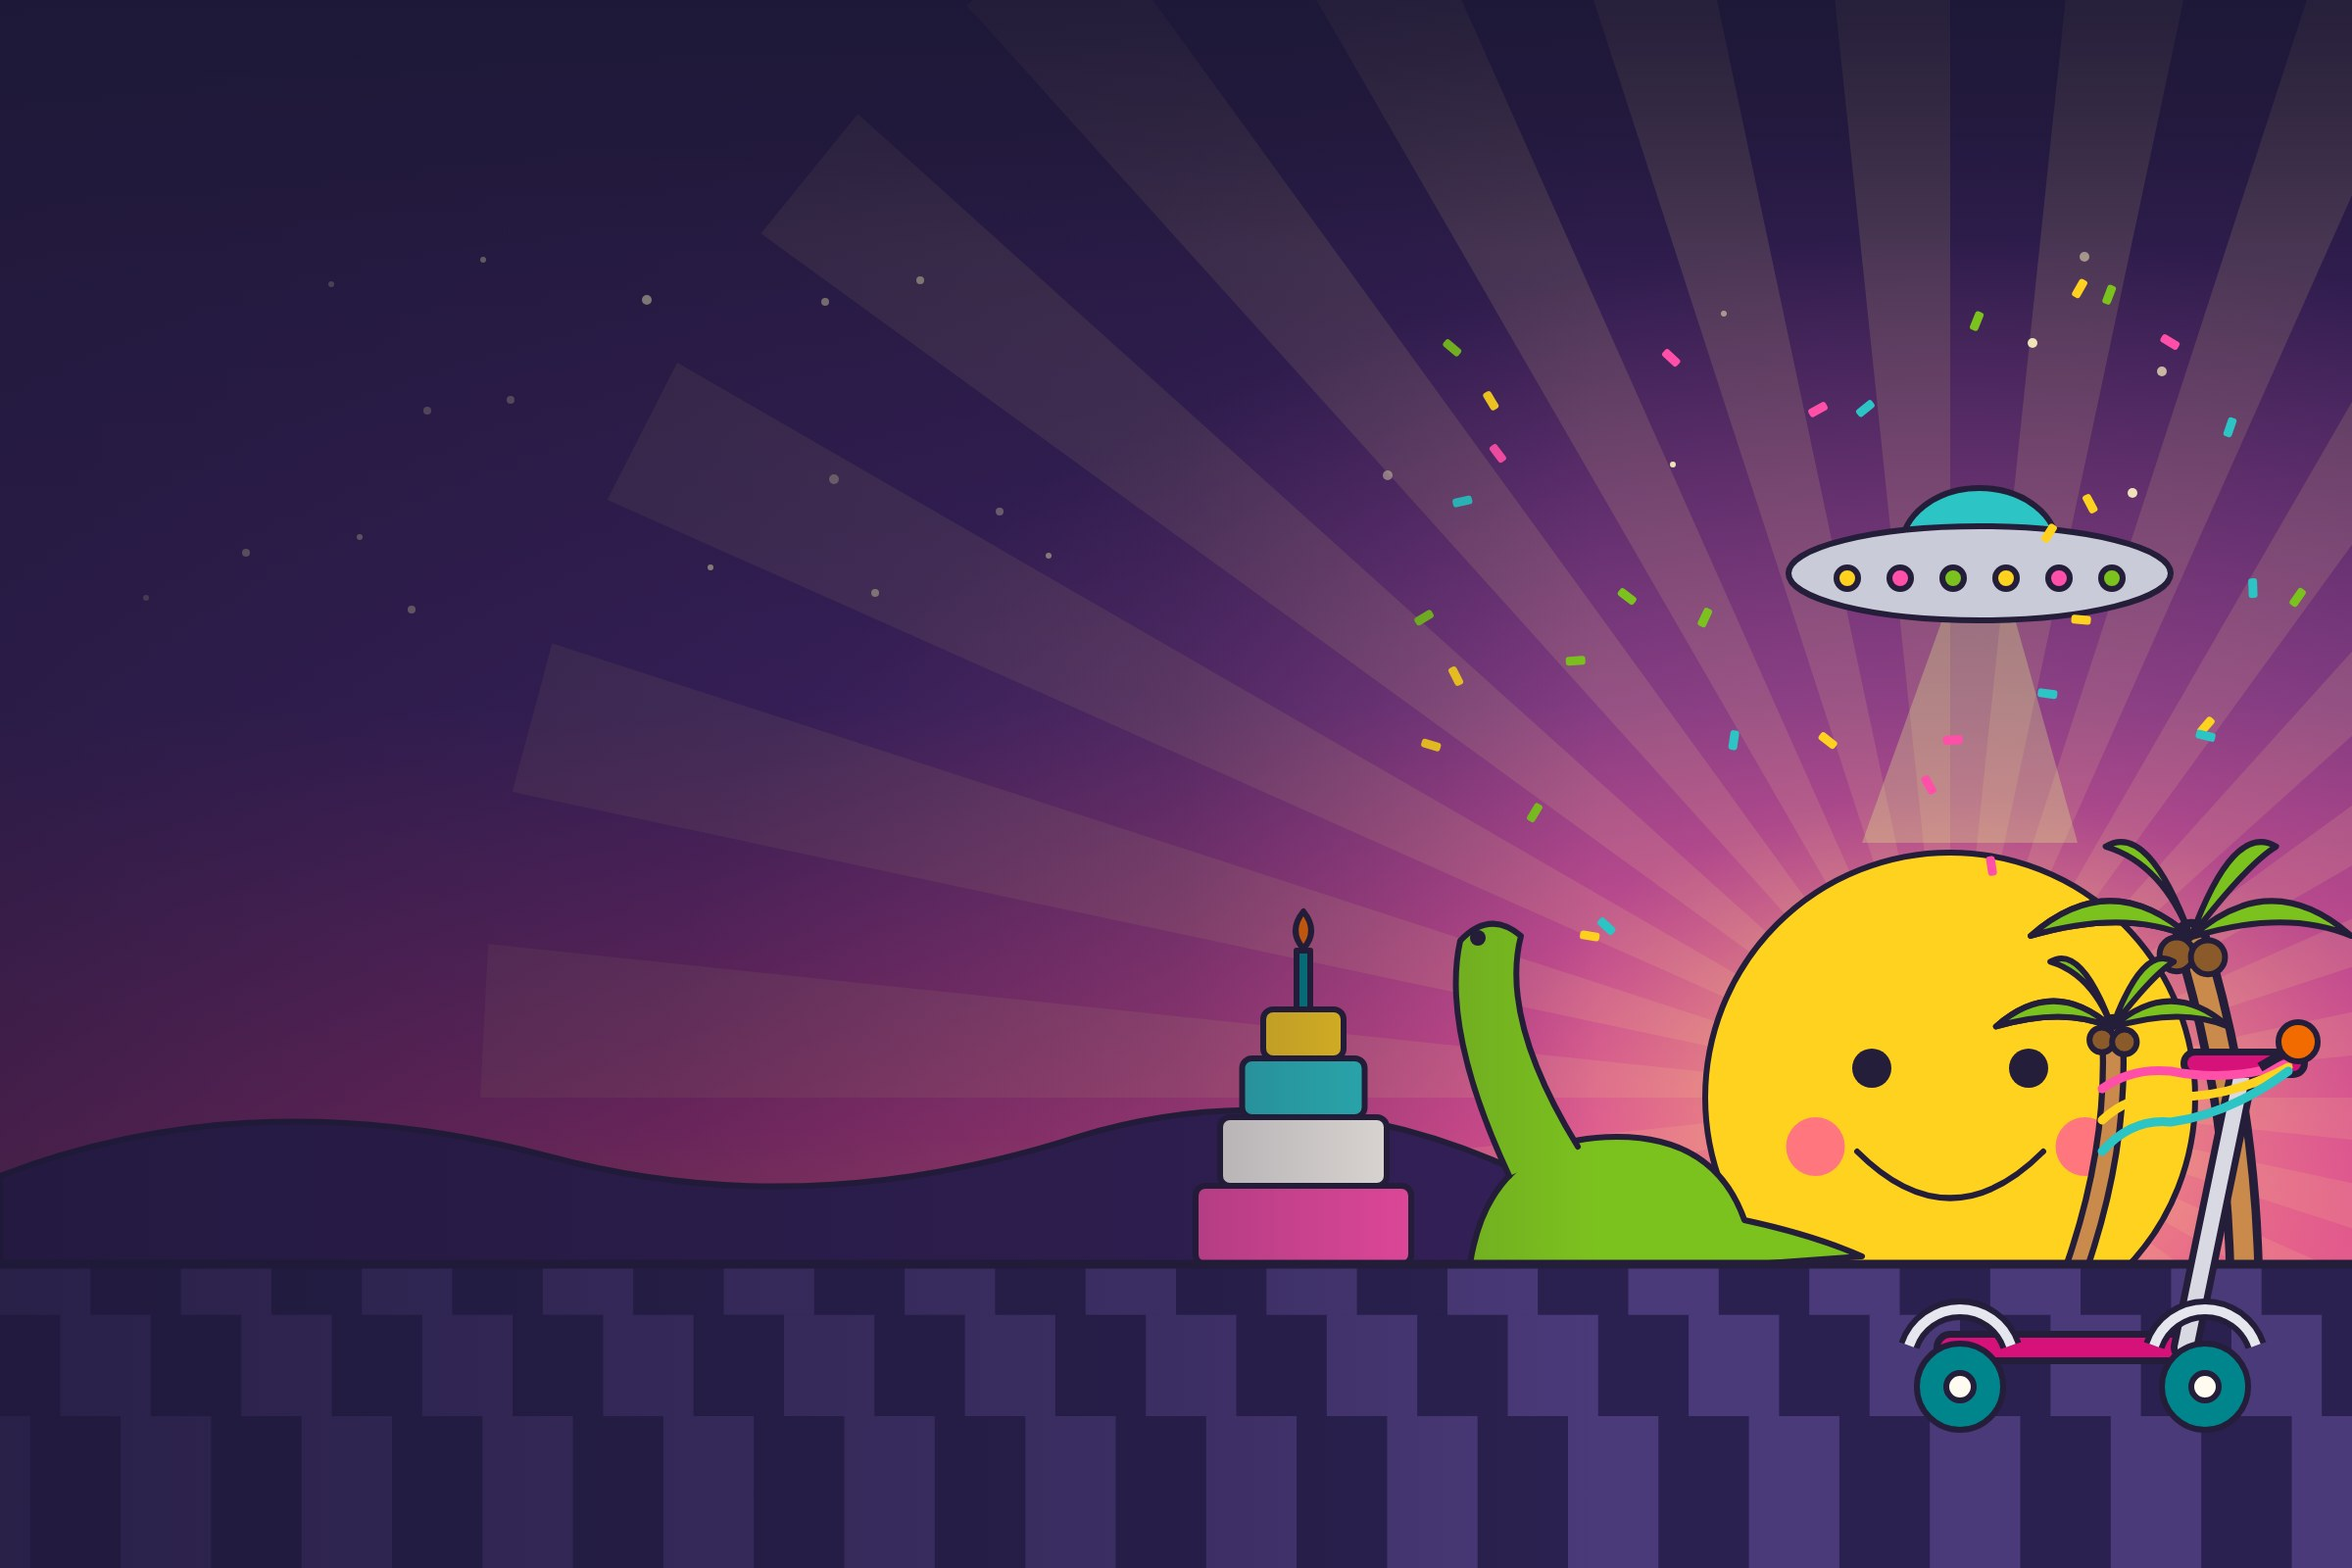
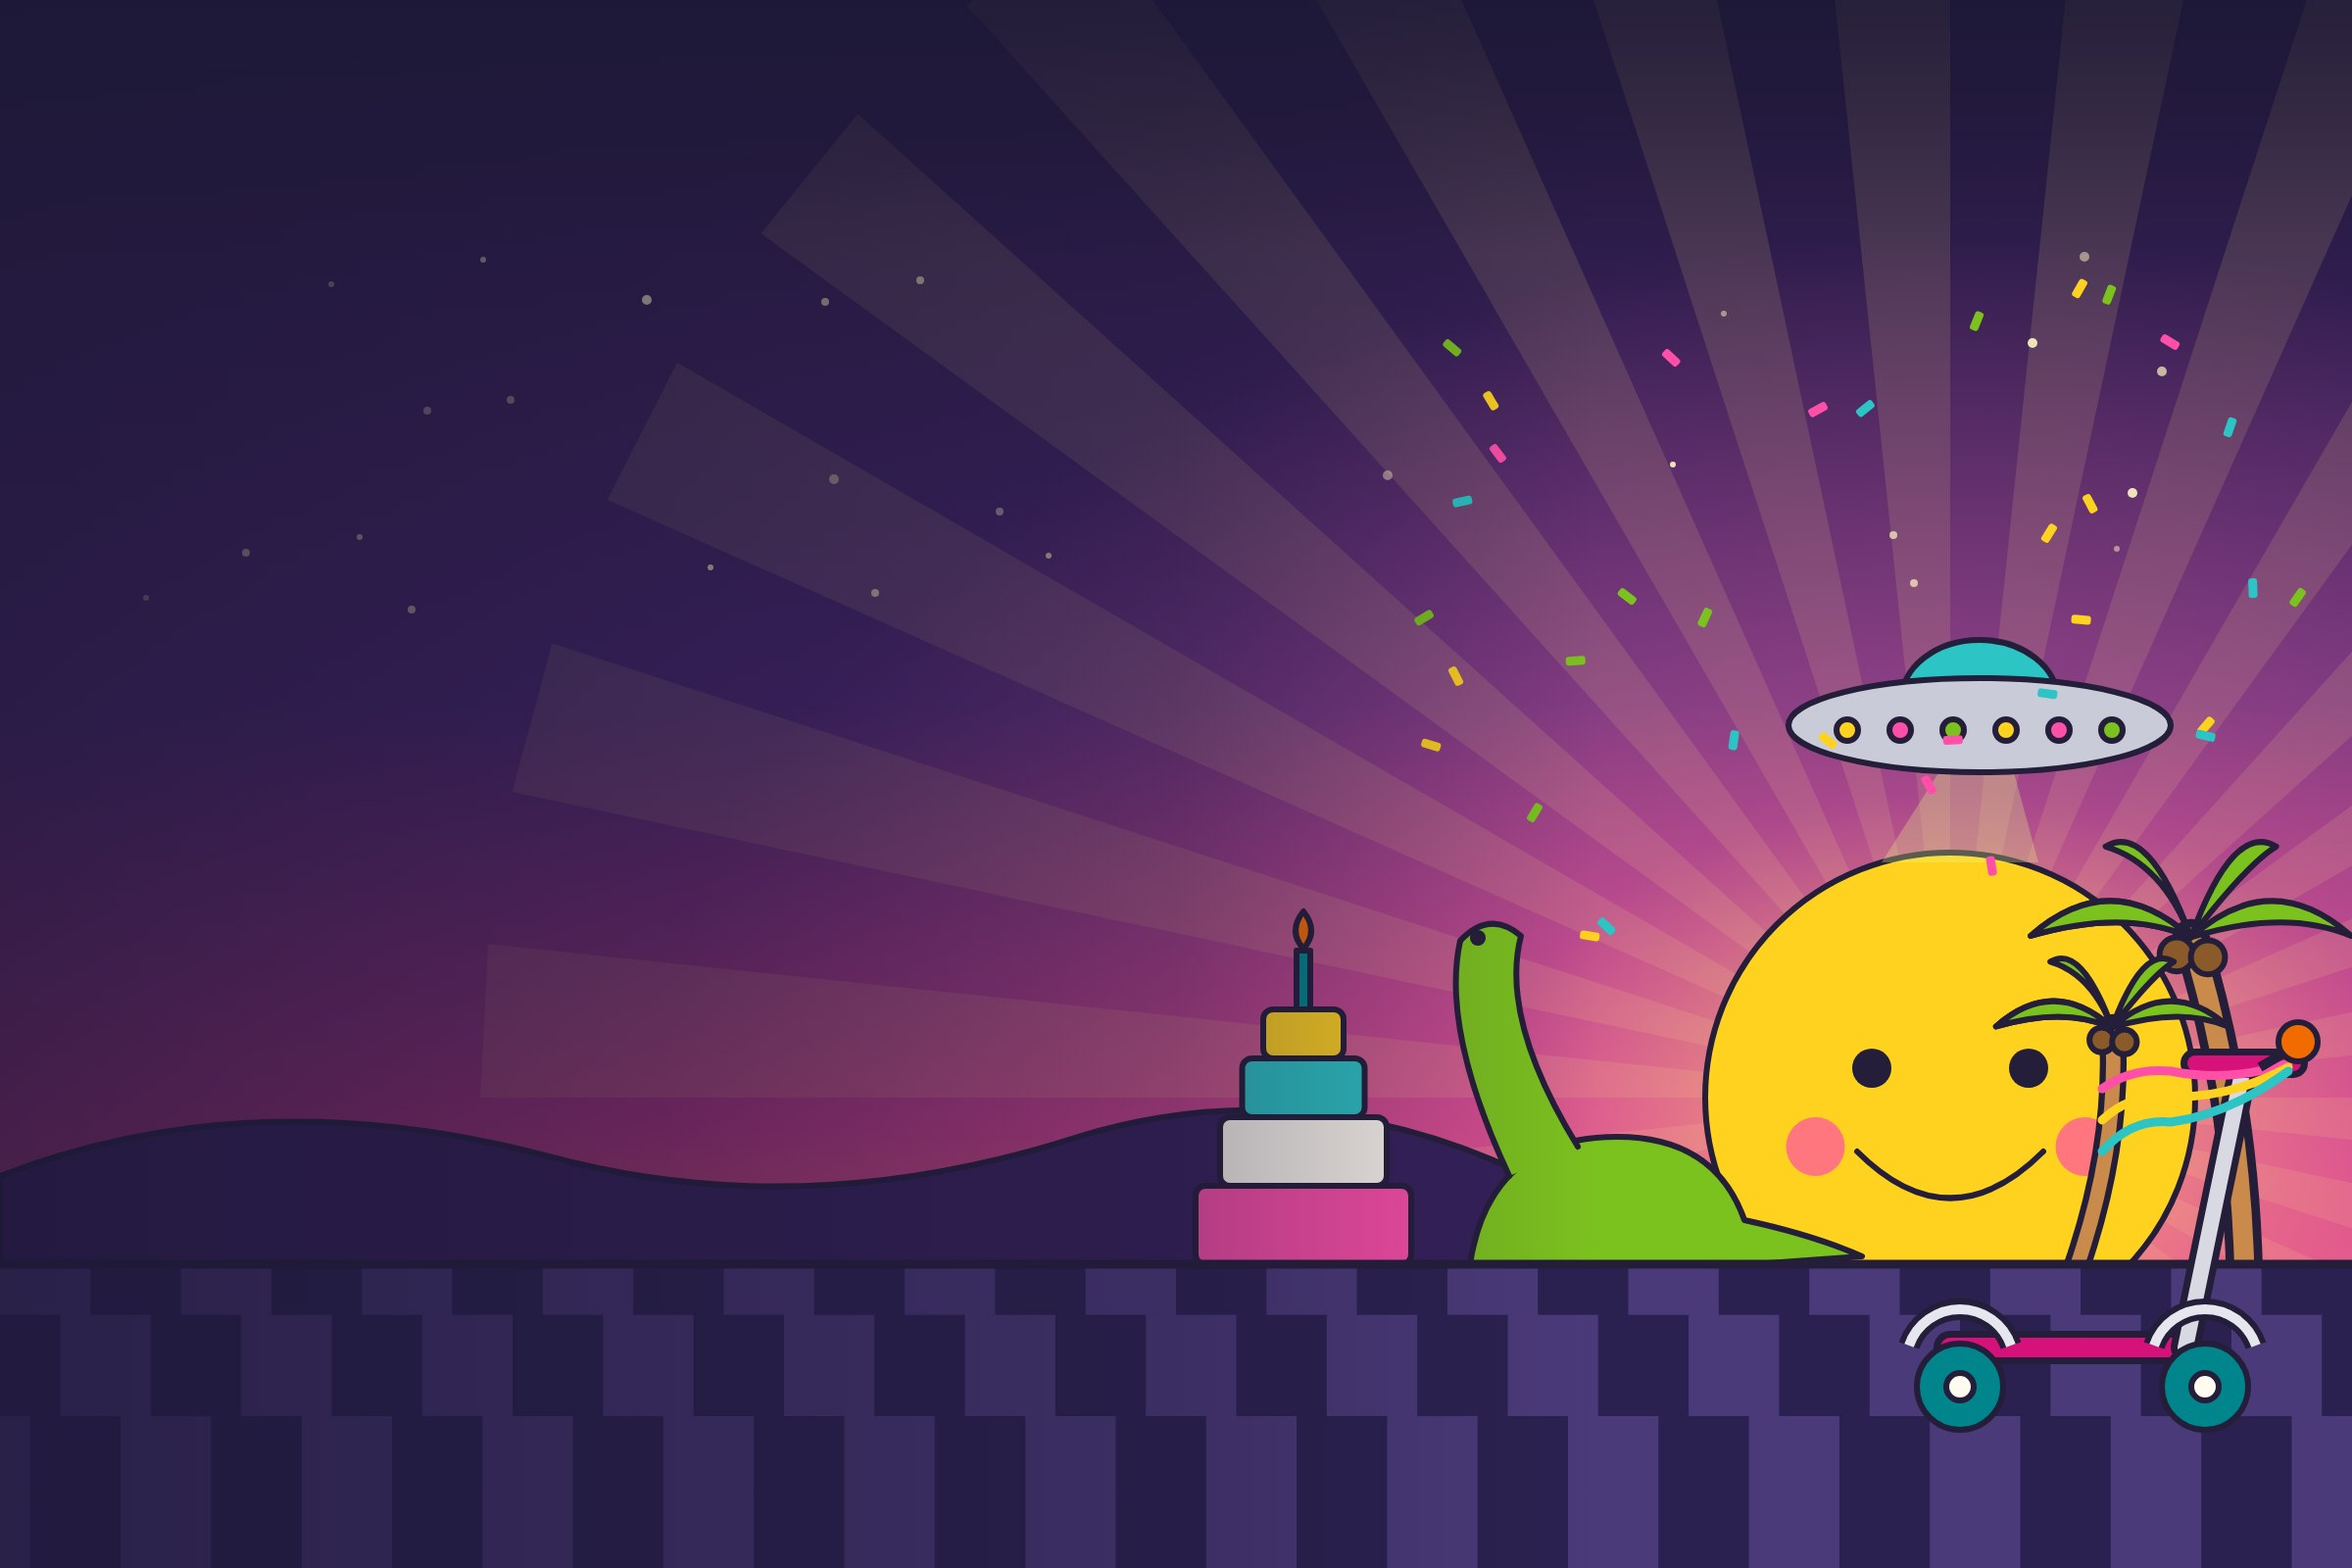
Make the homepage hero full height and crop from the sky
The hero now fills the viewport (100svh) instead of 90vh. The default
art is anchored to its bottom edge, so short, wide windows crop empty
sky instead of the road and scooter, and the saucer sits lower so it
stays in frame.

Claude-Session: https://claude.ai/code/session_01EdR1WS47LuugXGJ8UkNv5p

Changed region(s): [[0.75, 0.3125, 0.9375, 0.5625]]

diff --git a/components/blocks/Hero.tsx b/components/blocks/Hero.tsx
@@ -136,7 +136,7 @@ export default function Hero({
   return (
     <section
       className={cn(
-        'relative h-[90vh] min-h-[600px] flex text-white bg-black overflow-hidden',
+        'relative h-svh min-h-[600px] flex text-white bg-black overflow-hidden',
         layoutClasses,
         theme === 'dark' ? 'bg-gray-900' : 'bg-black'
       )}
@@ -156,8 +156,10 @@ export default function Hero({
               'object-cover',
               // The default art keeps its left side calm for the copy; on
               // narrow screens, where copy spans the width, show that side.
-              // Campaign key art is centered as designed.
-              !takeoverArt?.asset && 'object-[20%_center] md:object-center'
+              // It's anchored to the bottom so short, wide windows crop
+              // empty sky rather than the road and scooter. Campaign key art
+              // is centered as designed.
+              !takeoverArt?.asset && 'object-[20%_100%] md:object-bottom'
             )}
             priority={priority === 'high'}
             sizes="100vw"

diff --git a/scripts/seed/art/scenes.py b/scripts/seed/art/scenes.py
@@ -387,10 +387,11 @@ def home_hero():
     b += f'<rect x="{cx_ - 7}" y="{y - 60}" width="14" height="60" {o(TEAL)}/><path d="M{cx_},{y - 100} q-16,20 0,38 q16,-18 0,-38 Z" {o(ORANGE)}/>'
     # palms (Bora Bora Bungalow Bay)
     b += palm(2290, ground, 1.45, -34) + palm(2120, ground, 1.05, 22)
-    # saucer with tractor beam (Roswell Saucer Speedway)
-    b += f'<path d="M1990,610 L1900,860 L2120,860 L2050,610 Z" fill="#E8FF8A" opacity=".28"/>'
-    b += f'<ellipse cx="2020" cy="560" rx="80" ry="62" {o(TEAL_L)}/><ellipse cx="2020" cy="585" rx="195" ry="48" {o("#C9CCD8")}/>'
-    b += ''.join(f'<circle cx="{1885 + k * 54}" cy="590" r="11" {o([YELLOW, PINK_L, LIME][k % 3])}/>' for k in range(6))
+    # saucer beaming up the sun (Roswell Saucer Speedway); kept low enough to
+    # survive the top crop on short, wide windows
+    b += f'<path d="M1990,770 L1920,{sy - 240} L2080,{sy - 240} L2050,770 Z" fill="#E8FF8A" opacity=".28"/>'
+    b += f'<ellipse cx="2020" cy="715" rx="80" ry="62" {o(TEAL_L)}/><ellipse cx="2020" cy="740" rx="195" ry="48" {o("#C9CCD8")}/>'
+    b += ''.join(f'<circle cx="{1885 + k * 54}" cy="745" r="11" {o([YELLOW, PINK_L, LIME][k % 3])}/>' for k in range(6))
     # dino peeking in (Dino Detour)
     dx = 1500
     b += (f'<path d="M{dx},{ground} Q{dx + 20},{ground - 130} {dx + 150},{ground - 130} Q{dx + 250},{ground - 130} {dx + 280},{ground - 45} '
